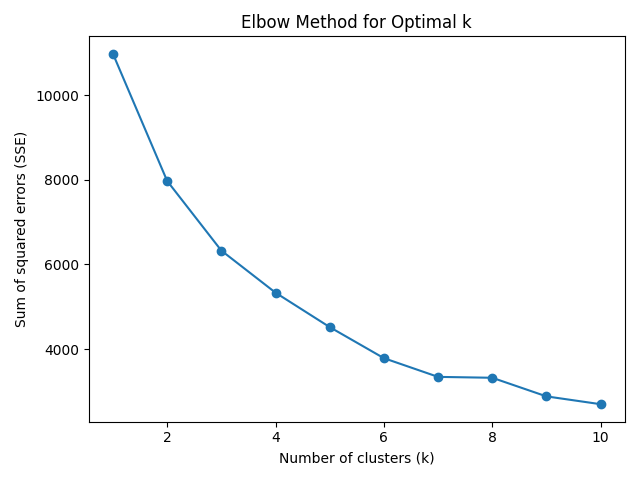
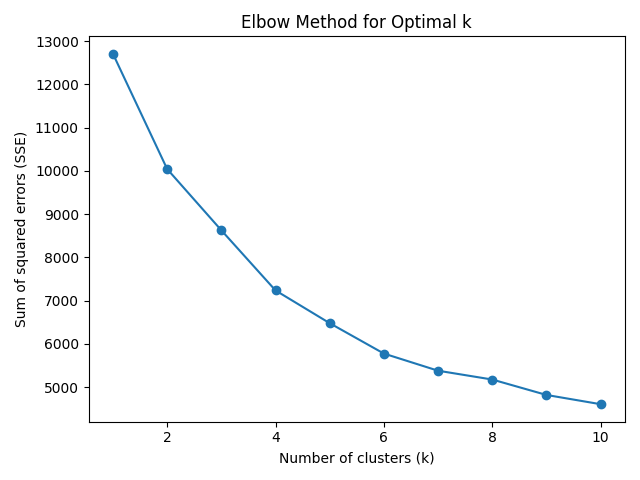
Clustering section pt.3

diff --git a/4_4clustering.py b/4_4clustering.py
@@ -8,7 +8,10 @@ import os
 
 def conditions_data(df):
     conditions = (
-        df.groupby(['SURFACE_COND_DESC', 'ATMOSPH_COND_DESC', 'ROAD_GEOMETRY_DESC', 'AGE_GROUP_MODE','LIGHT_CONDITION'])
+        df.groupby([
+            'SURFACE_COND_DESC', 'ATMOSPH_COND_DESC', 'ROAD_GEOMETRY_DESC', 'AGE_GROUP',
+            'LIGHT_CONDITION'
+    ])
         .size()
         .reset_index(name='condition')
     )
@@ -24,7 +27,7 @@ def clustering():
         'SURFACE_COND_DESC',
         'ATMOSPH_COND_DESC',
         'ROAD_GEOMETRY_DESC',
-        'AGE_GROUP_MODE',
+        'AGE_GROUP',
         'LIGHT_CONDITION'
     ])
     
@@ -32,26 +35,29 @@ def clustering():
         'VEHICLE_AGE_NORM': 'mean',
         'TOTAL_OCCUPANTS_NORM': 'mean',
         'ACCIDENT_NO': 'count',
-        'ROAD_RISK': 'mean',
-        'ATM_RISK': 'mean',
-        'WEATHER_RISK': 'mean'       
+        'WEATHER_RISK': 'mean',
+        'SPEED_ZONE_BINARY': 'mean',
+        'ATMOSPH_COND_RISK': 'mean',
+        'SURFACE_COND_RISK': 'mean'  
     }).reset_index().rename(columns={'ACCIDENT_NO': 'CRASH_COUNT'})
     
-    features = ['VEHICLE_AGE_NORM', 'TOTAL_OCCUPANTS_NORM', 'CRASH_COUNT', 'ROAD_RISK', 'ATM_RISK', 'WEATHER_RISK']
-    feature_data = aggregated[features]
+    features = aggregated[['VEHICLE_AGE_NORM', 'TOTAL_OCCUPANTS_NORM', 'CRASH_COUNT', 'WEATHER_RISK', 'SPEED_ZONE_BINARY', 'ATMOSPH_COND_RISK', 'SURFACE_COND_RISK']]
+    
+    feature_data = features
 
     scaler = StandardScaler()
     normalised_features = scaler.fit_transform(feature_data)
     
-    kmeans = KMeans(n_clusters=7, random_state=42)
+    kmeans = KMeans(n_clusters=4, random_state=42)
     aggregated['CLUSTER'] = kmeans.fit_predict(normalised_features)
     
-    #sns.countplot(x='CLUSTER', hue = 'AGE_GROUP_MODE', data=aggregated)
+    #sns.countplot(x='CLUSTER', hue = 'AGE_GROUP',
+    #  data=aggregated)
     #plt.title('Cluster Distribution by Age Group')
     #plt.show()
 
 
-    for cluster_id in range(7):
+    for cluster_id in range(4):
         cluster_data = aggregated[aggregated['CLUSTER'] == cluster_id]
         top10 = cluster_data.sort_values(by='CLUSTER', ascending=False).head(10)
         top10.to_csv(f'4_4cluster_{cluster_id}.csv', index=False)

diff --git a/4_4elbow.py b/4_4elbow.py
@@ -14,20 +14,21 @@ def task4_4elbow():
         'SURFACE_COND_DESC',
         'ATMOSPH_COND_DESC',
         'ROAD_GEOMETRY_DESC',
-        'AGE_GROUP_MODE',
+        'AGE_GROUP',
         'LIGHT_CONDITION'
     ])
     
     aggregated = grouped.agg({
         'VEHICLE_AGE_NORM': 'mean',
         'TOTAL_OCCUPANTS_NORM': 'mean',
-        'CRASH_COUNT': 'count',
-        'ROAD_RISK': 'mean',
-        'ATM_RISK': 'mean',
-        'WEATHER_RISK_NORM': 'mean'        
+        'ACCIDENT_NO': 'count',
+        'WEATHER_RISK': 'mean',
+        'SPEED_ZONE_BINARY': 'mean',
+        'ATMOSPH_COND_RISK': 'mean',
+        'SURFACE_COND_RISK': 'mean'       
     }).reset_index().rename(columns={'ACCIDENT_NO': 'CRASH_COUNT'})
     
-    features = aggregated[['VEHICLE_AGE_NORM', 'TOTAL_OCCUPANTS_NORM', 'CRASH_COUNT', 'ROAD_RISK', 'ATM_RISK', 'WEATHER_RISK_NORM']]
+    features = aggregated[['VEHICLE_AGE_NORM', 'TOTAL_OCCUPANTS_NORM', 'CRASH_COUNT', 'WEATHER_RISK', 'SPEED_ZONE_BINARY', 'ATMOSPH_COND_RISK', 'SURFACE_COND_RISK']]
 
     scaler = StandardScaler()
     normalised_features = scaler.fit_transform(features)
